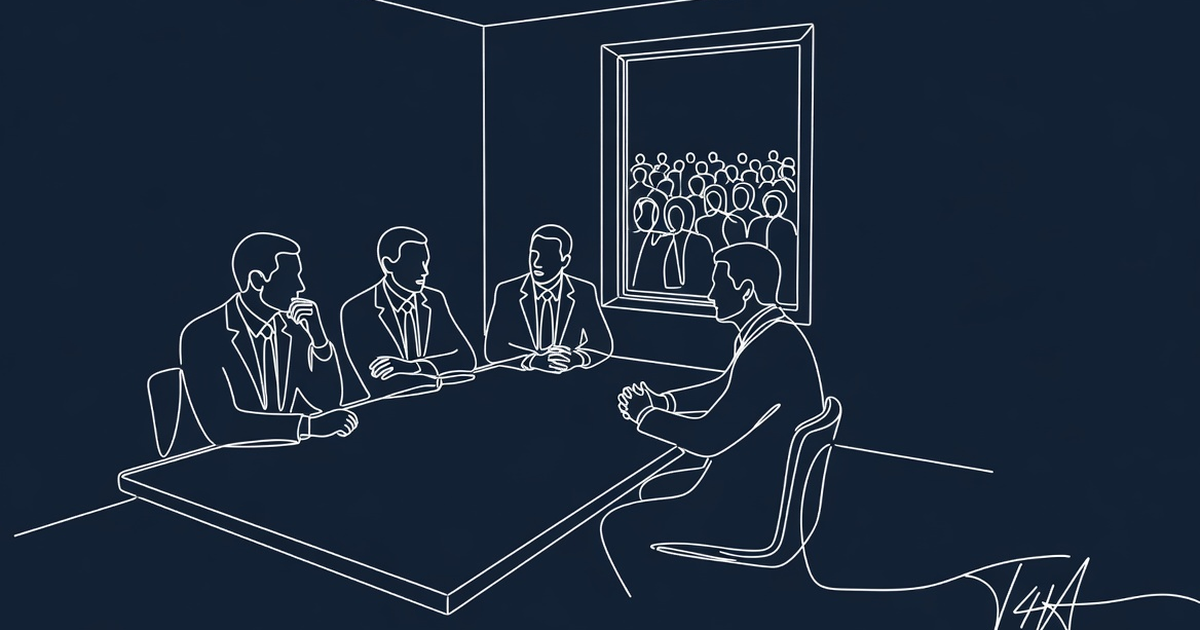
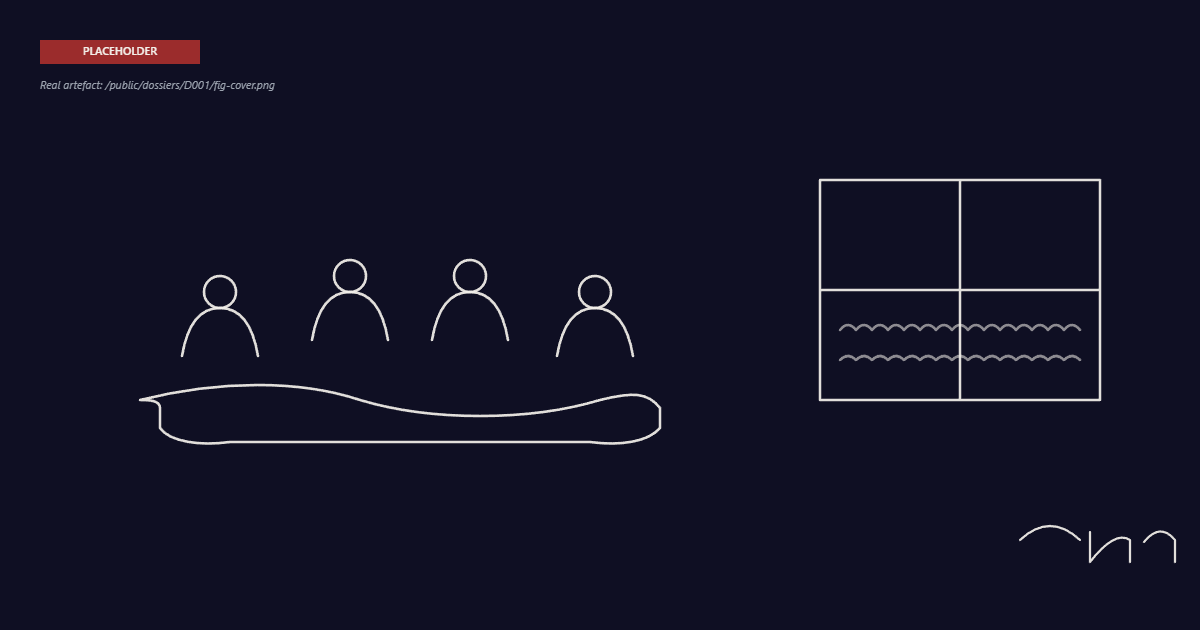
feat(D001 OG): replace 1200x630 OG and add square/portrait/story variants
Drops the new burgundy-door illustration set into public/dossiers/D001/,
replacing the previous 52KB cover/OG render with the 183KB final and
adding the three social-format variants. Old SVG source of the 1200x630
OG is removed; door-line source PNGs added under sources/ so future
re-renders have the master line art.

The Open Graph head now emits og:image groups for square, portrait, and
story alongside the canonical 1200x630, each with the correct
og:image:width / og:image:height. Twitter card stays at 1200x630.

Dossier type gains optional ogImageSquare / ogImagePortrait / ogImageStory
fields; D001.json populates all three.

validate-dossiers and astro check both green; lint clean on touched files.

diff --git a/src/data/dossier-types.ts b/src/data/dossier-types.ts
@@ -231,6 +231,9 @@ export interface Dossier {
   status: DossierStatus;
   primaryLens: DossierLens;
   ogImage: string; // '/dossiers/D001/og-1200x630.png'
+  ogImageSquare?: string; // '/dossiers/D001/og-square-1200.png' (1:1, chat thumbs)
+  ogImagePortrait?: string; // '/dossiers/D001/og-portrait-1080x1350.png' (4:5, IG feed)
+  ogImageStory?: string; // '/dossiers/D001/og-story-1080x1920.png' (9:16, IG/TikTok story)
   accentColor: string; // hex — falls back to designTokens.accent
   stageScores: DossierStageScores;
   stageScoresNote?: string;